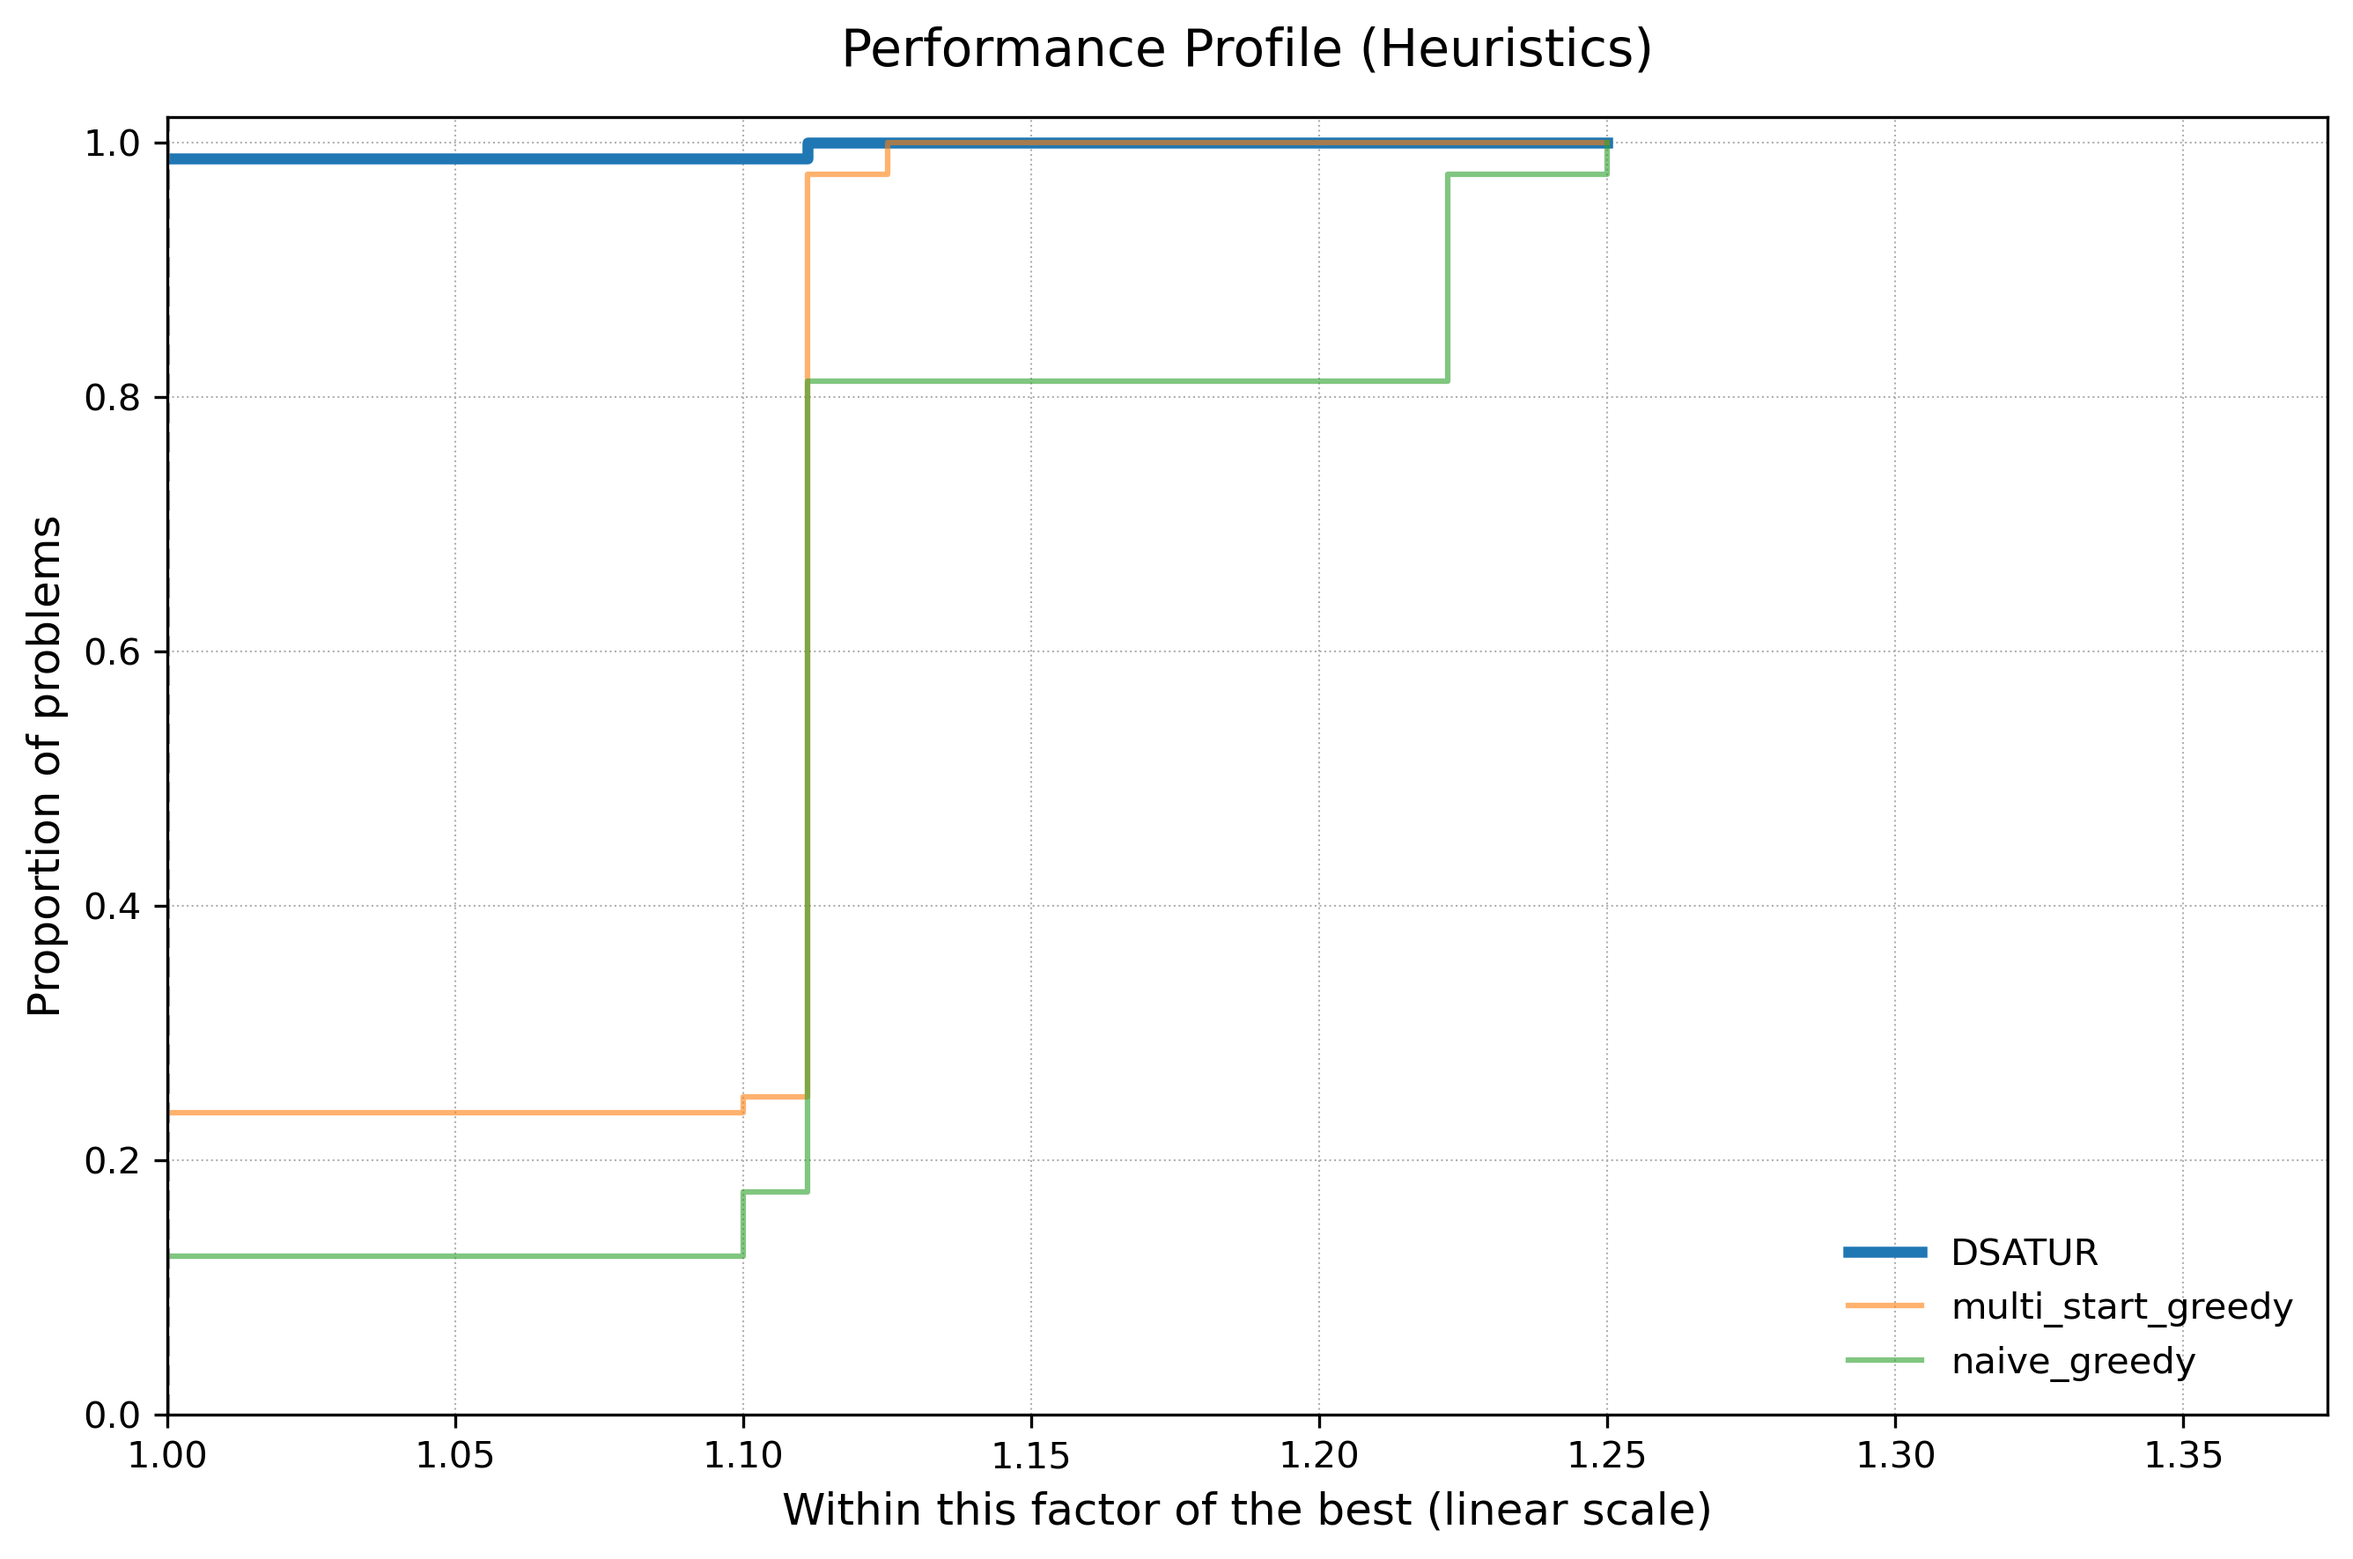
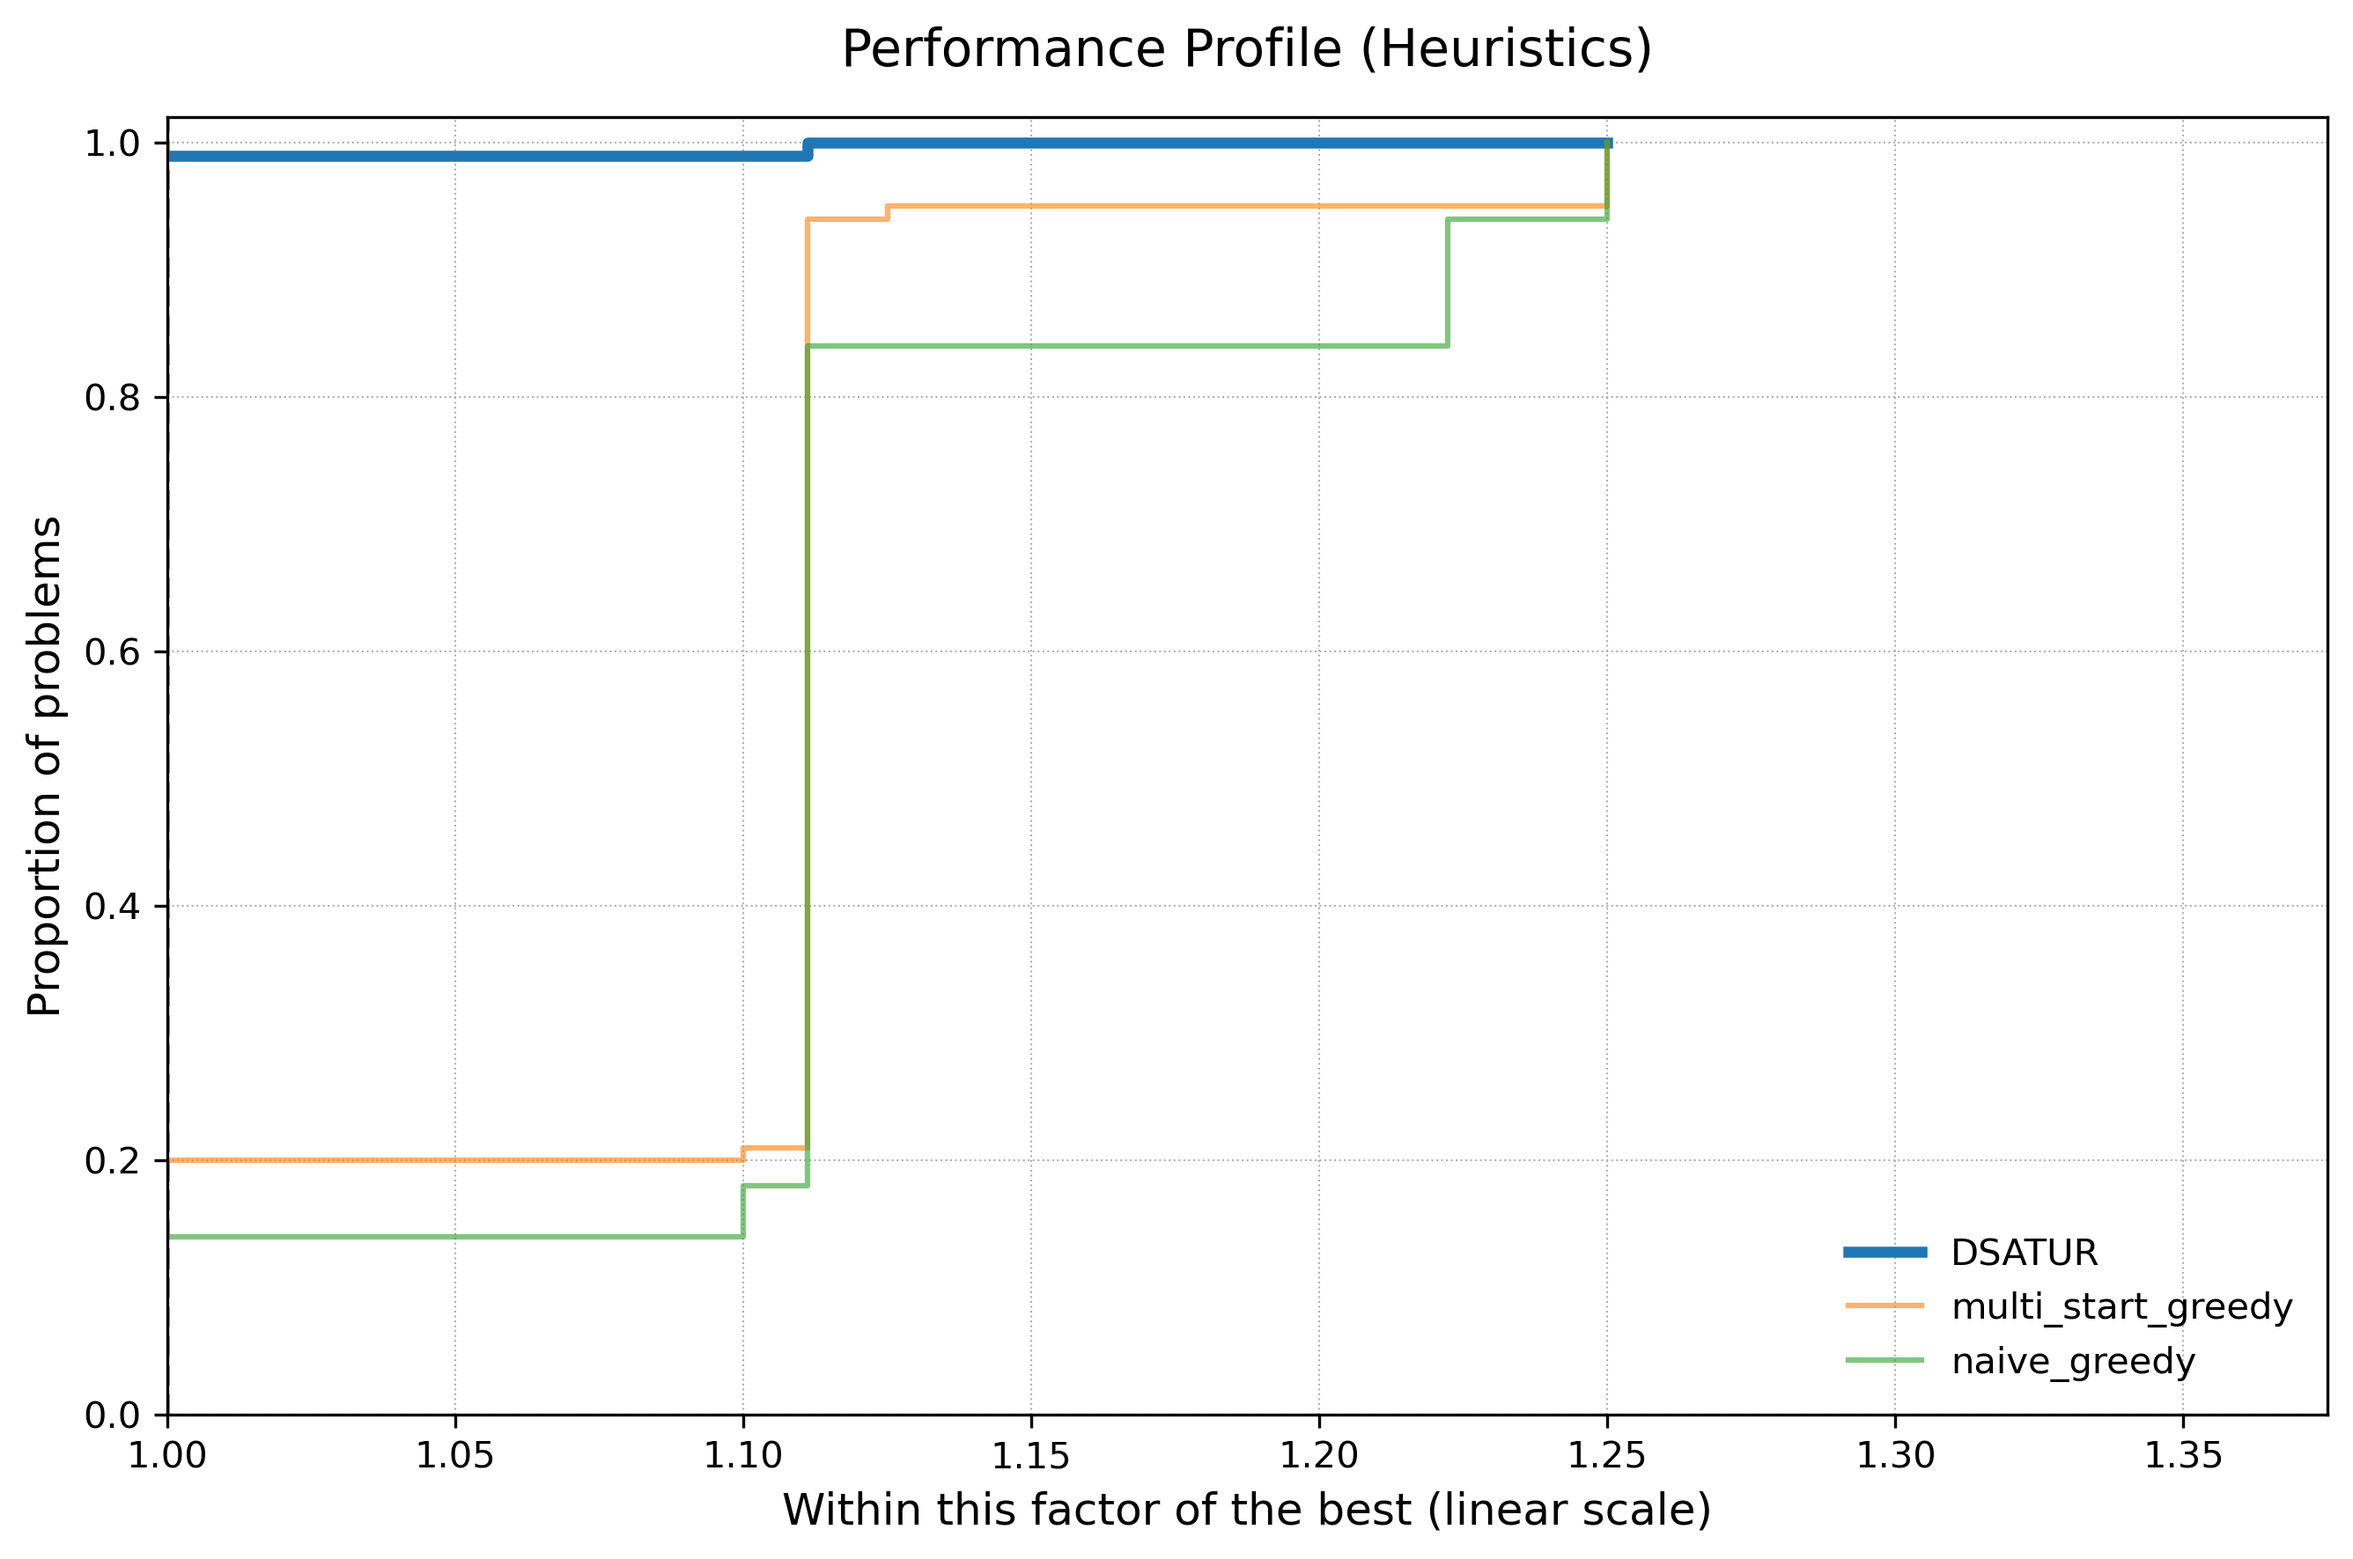
further benchmarking

diff --git a/sheets/05_graph_coloring/gurobi_perfomance_profile.py b/sheets/05_graph_coloring/gurobi_perfomance_profile.py
@@ -1,6 +1,8 @@
-from heuristics.dsatur import GCDsatur
-from heuristics.multi_start_greedy import GCMultiStartGreedy
-from heuristics.naive_greedy import GCNaiveGreedy
+from models.gurobi.ass_grb import ASSGRB
+from models.gurobi.ass_s_grb import ASS_SGRB
+from models.gurobi.rep_grb import REP_GRB
+
+
 from _gclib import GCGraphInstance
 from benchmarking import plot_performance_profile as ppp
 
@@ -24,28 +26,48 @@ instances = []
 strategies = []
 metrics = []
 
-gc = GCGraphInstance("barabasi", gen=100)
-for name in gc.graphs.keys():
-    graph = gc.graphs[name]
+gc = GCGraphInstance("kneser", gen=5)
+gc2 = GCGraphInstance("barabasi", gen=5)
+gc3 = GCGraphInstance("erdos", gen=5)
 
-    ng = GCNaiveGreedy(graph)
-    sol_ng = ng.solve()
+
+
+all_graphs = {}
+i = 0
+for k in gc.graphs.values():
+    all_graphs[i] = k
+    i += 1
+
+for b in gc2.graphs.values():
+    all_graphs[i] = b
+    i += 1
+
+for e in gc3.graphs.values():
+    all_graphs[i] = e
+    i += 1
+
+
+for name in all_graphs.keys():
+    graph = all_graphs[name]
+
+    ng = ASSGRB(graph)
+    sol_ng = ng.solve(60)
     instances.append(name)
-    strategies.append("naive_greedy")
+    strategies.append("ASS")
     metrics.append(sol_ng)
 
 
-    ms = GCMultiStartGreedy(graph)
-    sol_ms = ms.solve()
+    ms = ASS_SGRB(graph)
+    sol_ms = ms.solve(60)
     instances.append(name)
-    strategies.append("multi_start_greedy")
+    strategies.append("ASS_S")
     metrics.append(sol_ms)
 
 
-    ds = GCDsatur(graph)
-    sol_ds = ds.solve()
+    ds = REP_GRB(graph)
+    sol_ds = ds.solve(60)
     instances.append(name)
-    strategies.append("DSATUR")
+    strategies.append("REP")
     metrics.append(sol_ds)
 
 
@@ -63,11 +85,11 @@ ax = ppp.plot_performance_profile(
     metric_column="metric",
     direction="min",        # "min" wenn kleiner besser ist
     comparison="relative",  # oder "absolute"
-    title="Performance Profile (Heuristics)",
+    title="Performance Profile (Gurobi Models)",
     highlight_best=True,
 )
 
 #plt.show()
 
-ax.figure.savefig("benchmarking/plots/heuristics_performance_profile_barabasi.png", dpi=300, bbox_inches="tight")
+ax.figure.savefig("benchmarking/plots/gurobi_performance_profile.png", dpi=300, bbox_inches="tight")
 

diff --git a/sheets/05_graph_coloring/_gclib.py b/sheets/05_graph_coloring/_gclib.py
@@ -14,17 +14,27 @@ class GCGraphInstance():
             match type:
                 case "barabasi":
                     for i in range(gen):
-                        graph = nx.barabasi_albert_graph(i+100, 12)
+                        graph = nx.barabasi_albert_graph(i+50, 5)
                         self.graphs[i] = graph
                 
                 case "kneser":
                     for i in range(gen):
-                        graph = nx.kneser_graph(i+10, 3+i)
+                        graph = nx.kneser_graph(i+7, 2+i)
                         self.graphs[i] = graph
 
-                case _:
+                case "erdos":
                     for i in range(gen):
-                        graph = nx.erdos_renyi_graph(i+100, 0.5)
+                        graph = nx.erdos_renyi_graph(i+50, 0.5)
+                        self.graphs[i] = graph
+
+                case "cycle":
+                    for i in range(gen):
+                        graph = nx.cycle_graph(i+100)
+                        self.graphs[i] = graph
+
+                case "wheel":
+                    for i in range(gen):
+                        graph = nx.wheel_graph(i+100)
                         self.graphs[i] = graph
              
         else:

diff --git a/sheets/05_graph_coloring/heuristics_evaluation.md b/sheets/05_graph_coloring/heuristics_evaluation.md
@@ -1,0 +1,31 @@
+# Benchmarking the Heuristics
+
+In this chapter, we will benchmark the three different heuristics `naive_greedy`, `multi_start_greedy` and `dsatur` by runnning them on different kinds of generated graphs and plotting their performance profile, relative to each other.
+
+## Erdos-Renyi Graphs
+All the generated graphs had above 100 nodes with an edge creation probability of 0.5. The sample size was 100 graphs.
+
+Running the heuristics resulted in the following plot:
+![image](/benchmarking/plots/heuristics_performance_profile_erdos.png)
+
+We can see that:
+- DSATUR showed the best results, returning the best known solution for ~98% of instances. For all instances, it returned a solution within 5% of the best.
+- multi_start_greedy returned the best  known solution for only ~16% of instances. A solution within 5% of the known best was found only for 59% of instances. For 99% of instances, it returned a solution within 13% of the best. For all instances, if found a solution within 18% of the best.
+- naive_greedy returned the best known solution for no instance. For 3% of instances, it found a solution within 5% of the best. For all instances, it returned a solution 27% of the best known.
+
+It is evident that `DSATUR` offers the best solution most of the time, clearly outperforming the other heuristics. `multi_start_greedy` shows the second best performance, with a big gap compared to `DSATUR`. It catches up in a moderate fashion. `naive_greedy` performs the worst, not finding a best solution and scaling up the slowest.
+
+## Barabasi-Albert Graphs
+All the generated graphs had above 100 nodes with 12 edges attaching from now to existing nodes. The sample size was 100 graphs.
+
+Running the heuristics resulted in the following plot:
+![image](/benchmarking/plots/heuristics_performance_profile_barabasi.png)
+
+We can see that...
+
+
+## Kneser Graphs
+All the generated graphs had above 10 nodes with a growing subset size above 3. The sample size was 20 graphs.
+
+Running the heuristics resulted in the following plot:
+![image](/benchmarking/plots/heuristics_performance_profile_kneser.png)

diff --git a/sheets/05_graph_coloring/benchmarking/plots/heuristics_evaluation.md b/sheets/05_graph_coloring/benchmarking/plots/heuristics_evaluation.md
@@ -1,0 +1,9 @@
+# Benchmarking the Heuristics
+
+In this chapter, we will benchmark the three different heuristics `naive_greedy`, `multi_start_greedy` and `dsatur` by runnning them on different kinds of generated graphs and plotting their performance profile, relative to each other.
+
+## Erdos-Renyi Graphs
+All the generated graphs had above 100 nodes with an edge creation probability of 0.5. The sample size was 100 graphs.
+
+Running the heuristics resulted in the following plot:
+![image](/benchmarking/plots/heuristics_performance_profile_erdos.png)
